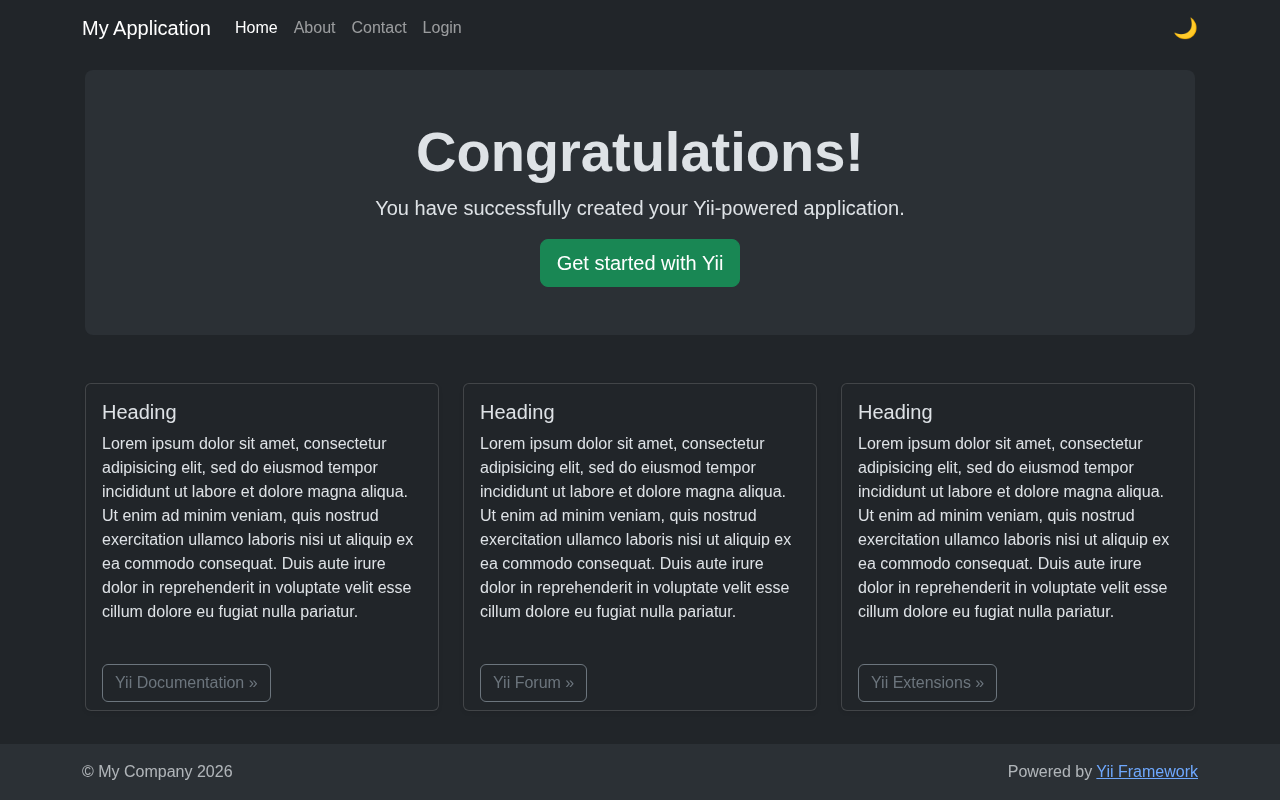
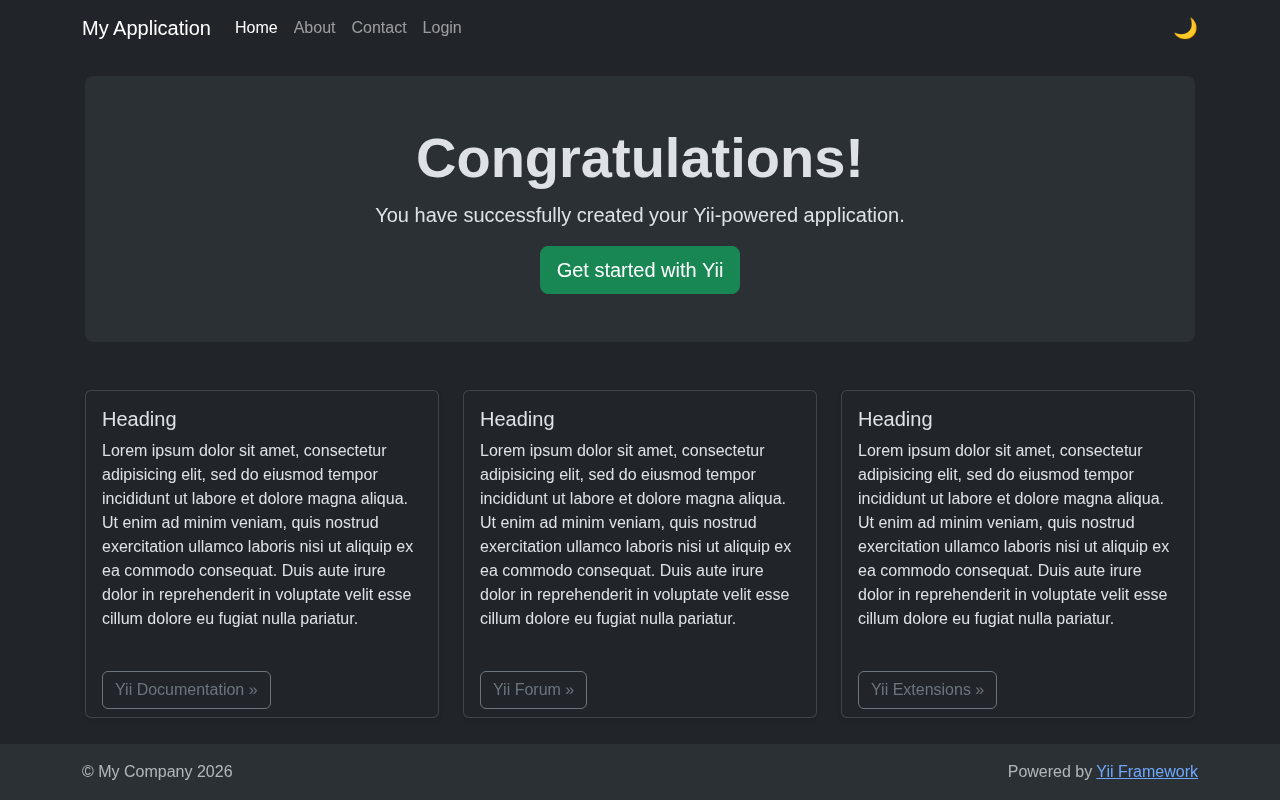
Apply fixed Copilot review.

diff --git a/web/css/site.css b/web/css/site.css
@@ -1,5 +1,6 @@
 main > .container {
     padding: 70px 15px 20px;
+    height: 100%;
 }
 
 .not-set {
@@ -69,6 +70,13 @@ a.desc:after {
 
 .nav > li > form > button.logout:focus {
     outline: none;
+}
+
+/* form cards */
+.site-login .card,
+.site-contact .card {
+    border-radius: 12px;
+    box-shadow: 0 2px 16px rgba(0, 0, 0, .08);
 }
 
 /* dark mode: elevate form cards against dark background */

diff --git a/views/site/login.php b/views/site/login.php
@@ -23,7 +23,7 @@ $iconTemplate = static fn (string $unicode): string =>
 
             <p class="text-center text-body-secondary mb-4">Please fill out the following fields to login:</p>
 
-            <div class="card border-0 bg-body p-4" style="border-radius: 12px; box-shadow: 0 2px 16px rgba(0,0,0,.08)">
+            <div class="card border-0 bg-body p-4">
 
                 <?php $form = ActiveForm::begin(['id' => 'login-form']); ?>
 

diff --git a/views/site/contact.php b/views/site/contact.php
@@ -45,7 +45,7 @@ $iconTemplate = static fn (string $unicode): string =>
                     Thank you.
                 </p>
 
-                <div class="card border-0 bg-body p-4" style="border-radius: 12px; box-shadow: 0 2px 16px rgba(0,0,0,.08)">
+                <div class="card border-0 bg-body p-4">
 
                     <?php $form = ActiveForm::begin(['id' => 'contact-form']); ?>
 

diff --git a/views/layouts/main.php b/views/layouts/main.php
@@ -59,7 +59,7 @@ $this->registerLinkTag(['rel' => 'icon', 'type' => 'image/x-icon', 'href' => Yii
     ?>
 </header>
 
-<main id="main" class="flex-shrink-0" role="main">
+<main id="main" class="flex-grow-1" role="main">
     <div class="container">
         <?php if (!empty($this->params['breadcrumbs'])): ?>
             <?= Breadcrumbs::widget(['links' => $this->params['breadcrumbs']]) ?>

diff --git a/views/site/index.php b/views/site/index.php
@@ -4,7 +4,7 @@
 
 $this->title = 'My Yii Application';
 ?>
-<div class="site-index d-flex flex-column justify-content-center" style="min-height: calc(100vh - 160px)">
+<div class="site-index d-flex flex-column justify-content-center h-100">
 
     <div class="p-5 mb-5 text-center bg-body-tertiary rounded-3">
         <h1 class="display-4 fw-bold">Congratulations!</h1>
